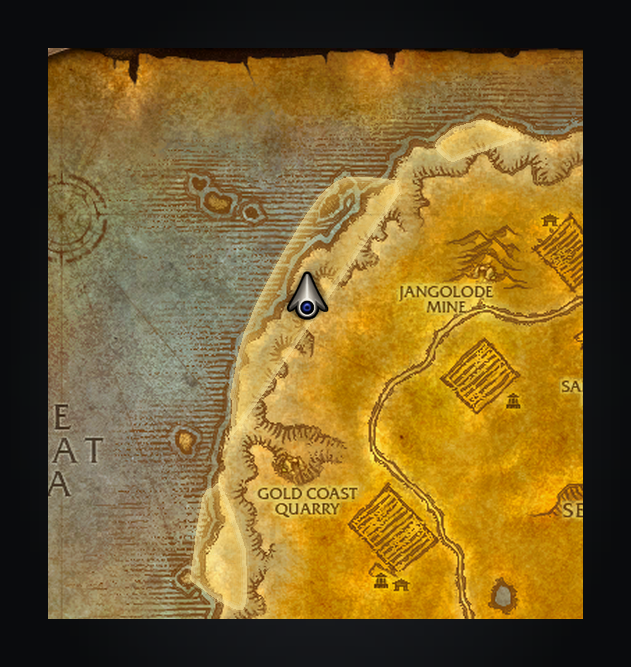
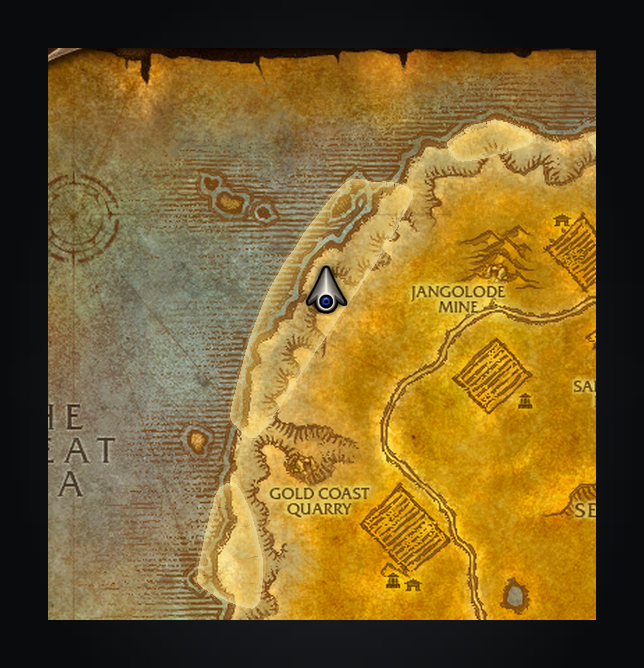
fix(screenshots): keep map data on data build

diff --git a/tools/ui_art.py b/tools/ui_art.py
@@ -1,5 +1,20 @@
 """Keep screenshot UI art on its reviewed build while data tables use generated data."""
 
+DATA_TABLES = frozenset(
+    {
+        "Map",
+        "QuestPOIBlob",
+        "QuestPOIPoint",
+        "UiMapAssignment",
+        "UiMapArt",
+        "UiMapArtStyleLayer",
+        "UiMapArtTile",
+        "UiMapXMapArt",
+        "WorldMapOverlay",
+        "WorldMapOverlayTile",
+    }
+)
+
 
 def make(Ui, data_build, art_build, data_tables):
     class Art(Ui):
@@ -9,10 +24,19 @@ def make(Ui, data_build, art_build, data_tables):
             kwargs.setdefault("build", art_build)
             super().__init__(*args, **kwargs)
             self._data = Ui(build=data_build, scale=self.scale)
+            self._atlas_cache = {}
+
+        def atlas(self, name):
+            if name not in self._atlas_cache:
+                self._atlas_cache[name] = super().atlas(name)
+            return self._atlas_cache[name]
 
         def table(self, name, key="ID"):
             if name in self._DATA_TABLES:
                 return self._data.table(name, key)
             return super().table(name, key)
+
+        def data_db2(self, name):
+            return self._data.wago.db2(name)
 
     return Art

diff --git a/tools/screenshots_area.py b/tools/screenshots_area.py
@@ -22,11 +22,11 @@ def areas(ui):
     """The quest objective's areas on the map as {blob ID: world points}, in the table's own order."""
     blobs = [
         row["ID"]
-        for row in ui.wago.db2("QuestPOIBlob")
+        for row in ui.data_db2("QuestPOIBlob")
         if (row["QuestID"], row["ObjectiveIndex"], int(row["UiMapID"])) == (QUEST_ID, OBJECTIVE, MAP_ID)
     ]
     points = {blob: [] for blob in blobs}
-    for row in sorted(ui.wago.db2("QuestPOIPoint"), key=lambda row: int(row["ID"])):
+    for row in sorted(ui.data_db2("QuestPOIPoint"), key=lambda row: int(row["ID"])):
         if row["QuestPOIBlobID"] in points:
             points[row["QuestPOIBlobID"]].append({"map": 0, "x": float(row["X"]), "y": float(row["Y"])})
     return points

diff --git a/tools/screenshots.py b/tools/screenshots.py
@@ -31,6 +31,7 @@ from gen_routes import BUILD as DATA_BUILD
 from screenshots_area import render as render_area_art
 from screenshots_services import render as render_services
 from screenshots_tracker import detached_tracker
+from ui_art import DATA_TABLES
 from ui_art import make as make_art_ui
 from wowmock import (
     FONTS,
@@ -68,15 +69,7 @@ Art = make_art_ui(
     Ui,
     DATA_BUILD,
     UI_ART_BUILD,
-    {
-        "UiMapAssignment",
-        "UiMapArt",
-        "UiMapArtStyleLayer",
-        "UiMapArtTile",
-        "UiMapXMapArt",
-        "WorldMapOverlay",
-        "WorldMapOverlayTile",
-    },
+    DATA_TABLES,
 )
 
 

diff --git a/docs/screenshots.md b/docs/screenshots.md
@@ -2,8 +2,8 @@
 
 `tools/screenshots.py` uses Pillow 12+, LuaJIT and the shared
 shared renderer in `forever-core`. Set `FOREVER_CORE` if the checkout is not beside this repository.
-the sibling `forever-core` checkout. All downloaded art is pinned to the client build in
-`tools/gen_routes.py` (`BUILD`); `~/.cache/wowmock/<build>/` holds the assets. No game installation or
+the sibling `forever-core` checkout. UI art and fonts use `UI_ART_BUILD` in `tools/screenshots.py`; generated
+map and content data use `DATA_BUILD` from `tools/gen_routes.py`. `~/.cache/wowmock/<build>/` holds the assets. No game installation or
 SavedVariables are read. Verified with Pillow 12.3.0 / FreeType 2.14.3.
 
 ```sh
